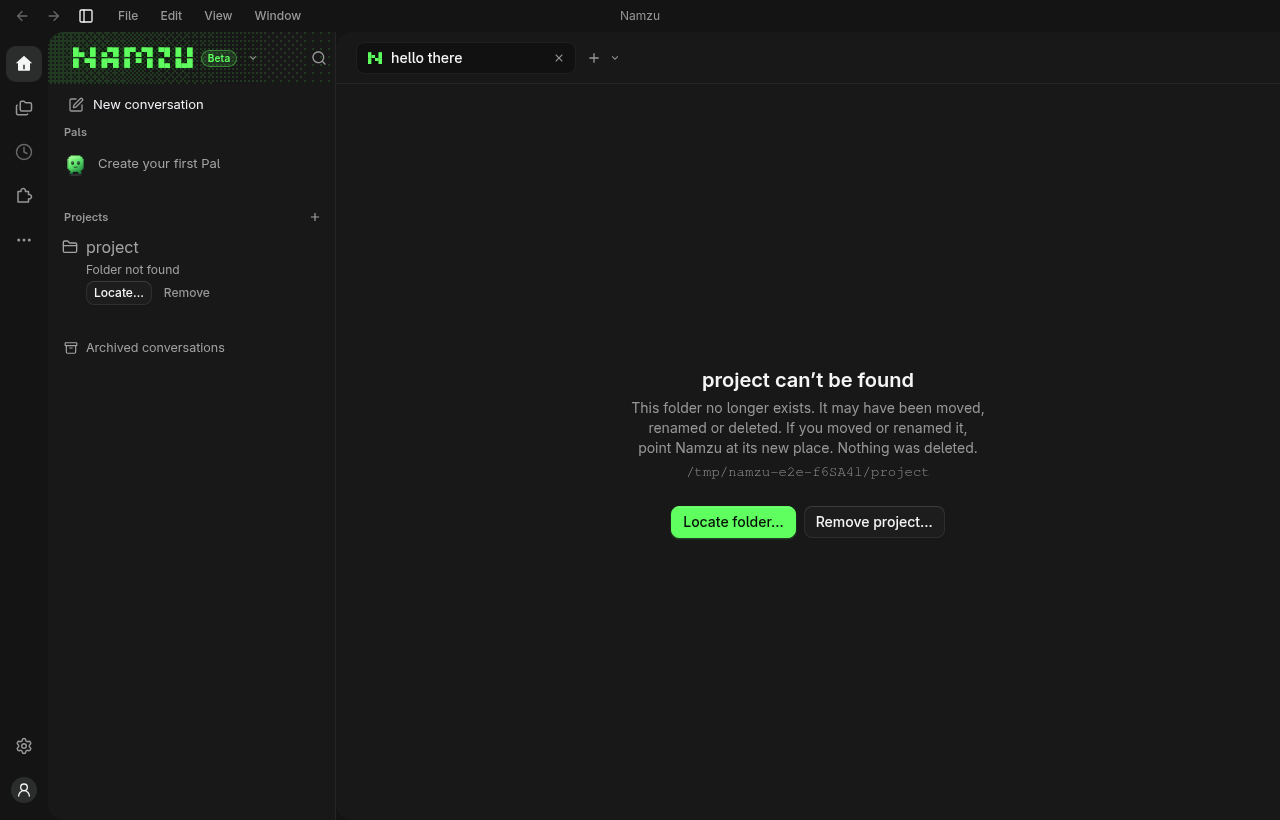
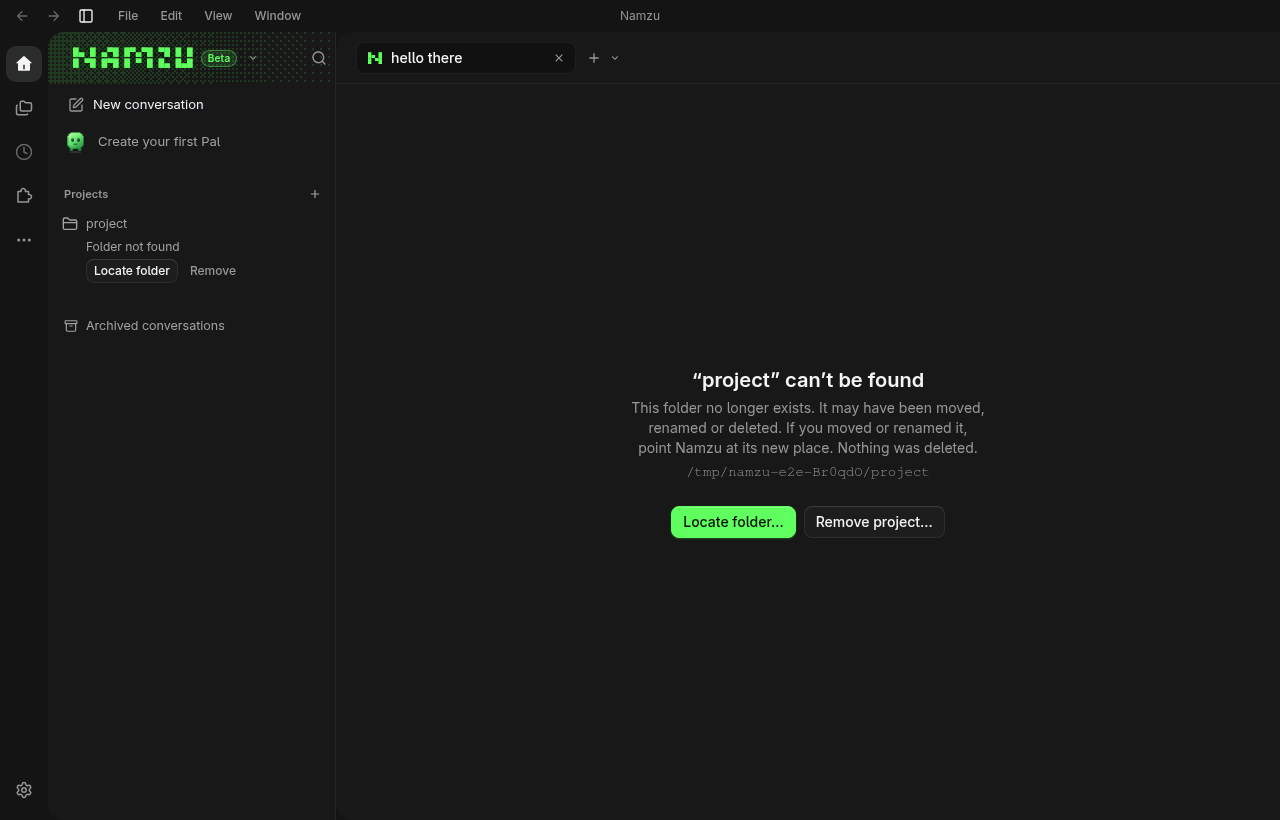
fix(desktop): quote the project name on the missing-folder page and its sidebar buttons

diff --git a/packages/desktop/src/renderer/sidebar.tsx b/packages/desktop/src/renderer/sidebar.tsx
@@ -467,7 +467,7 @@ function MissingProjectRow({
 					<Button
 						variant="outline"
 						size="xs"
-						aria-label={`Locate the folder for ${project.name}`}
+						aria-label={`Locate the folder for “${project.name}”`}
 						onClick={() => onLocate(project)}
 					>
 						Locate folder
@@ -477,7 +477,7 @@ function MissingProjectRow({
 					<Button
 						variant="ghost-muted"
 						size="xs"
-						aria-label={`Remove ${project.name}`}
+						aria-label={`Remove “${project.name}”`}
 						onClick={(event) => onRemove(project, event.currentTarget)}
 					>
 						Remove

diff --git a/packages/desktop/src/renderer/project-views.tsx b/packages/desktop/src/renderer/project-views.tsx
@@ -90,7 +90,7 @@ export function ProjectFolderMissing({
 		<Empty className="welcome project-open-error project-missing" data-project-folder-missing>
 			<EmptyHeader className="max-w-lg px-8">
 				<EmptyTitle>
-					<h1>{name} can’t be found</h1>
+					<h1>“{name}” can’t be found</h1>
 				</EmptyTitle>
 				<EmptyDescription>
 					This folder no longer exists. It may have been moved, renamed or deleted. If you moved or
